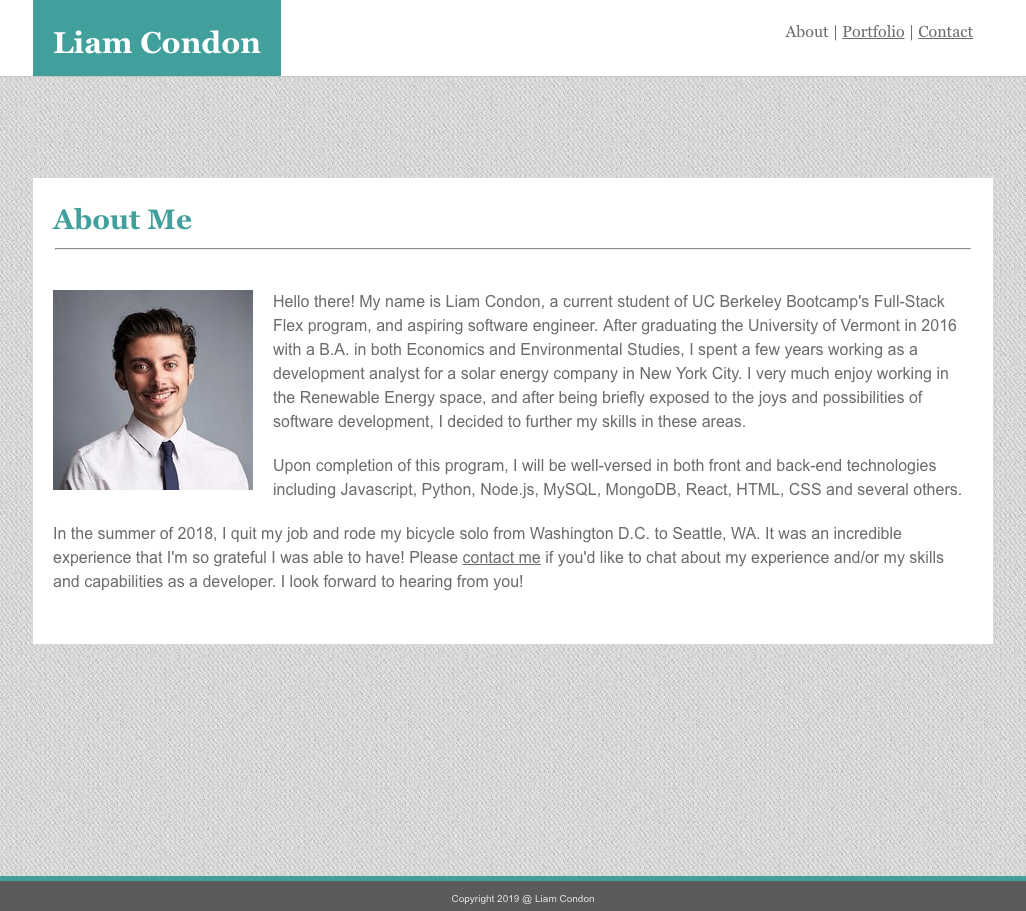
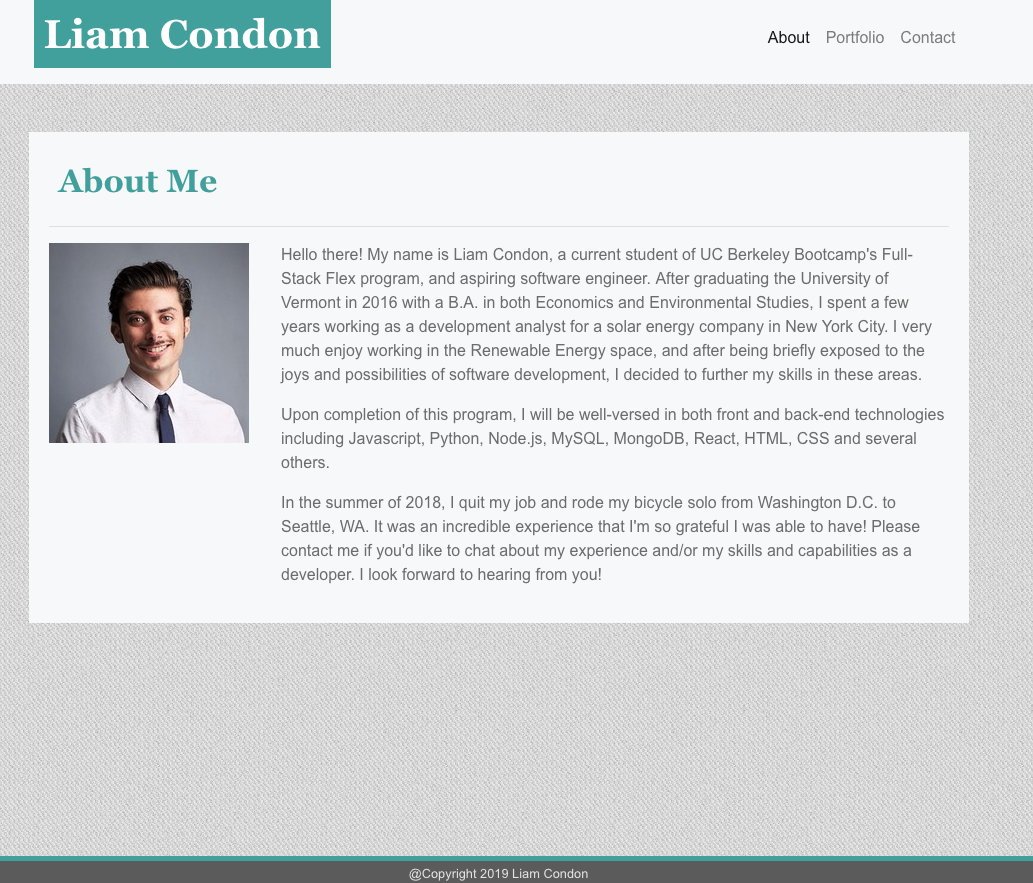
update README

diff --git a/README.md b/README.md
@@ -1,1 +1,27 @@
-# Bootstrap-Portfolio
+
+# Liam Condon - A Bootstrap Portfolio
+
+![portfolio screenshot](assets/images/portfolio-screenshot.png)
+
+### Live Link
+
+https://ltcondon.github.io/Bootstrap-Portfolio/
+
+## Synopsis
+
+This portfolio is one built using Bootstrap, composed of html and minimal css. Bootstrap's grid structure and responsive breakpoints minimized the need for media queries, so very few were added using css.
+
+## Layout
+
+The Portfolio is laid out across three pages, 'About' (also the home page or 'index'), 'Portfolio', and 'Contact'. Each page has it's own distinct .html page, but all three refer to Bootstrap's CDN and to one CSS sheet. 
+
+Each page contains a navigation bar with a header (my name) and a footer (basic copyright info).
+
+## Content
+
+The 'About' page contains basic education and personal information about myself and my experience, as well as a professional headshot.
+
+The 'Portfolio' page contains six placeholder images for projects that are to be built.
+
+The 'Contact' page contains a three-field form by which a viewer may contact me by providing a Name, Email, and a Subject (message).
+
